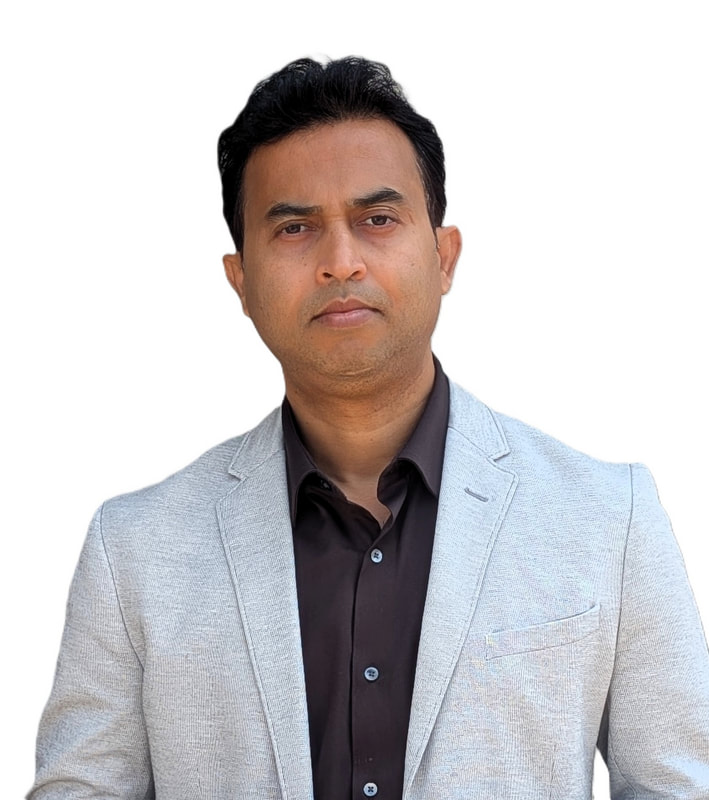
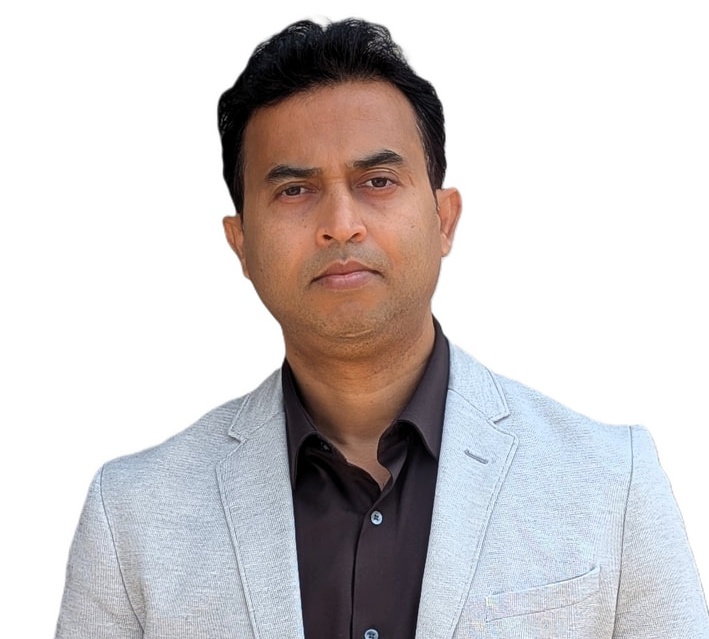
updated given changes

Changed region(s): [[0.031, 0.2379, 1.0, 1.0], [0.2793, 0.0297, 0.6516, 0.2081]]

diff --git a/index.html b/index.html
@@ -127,7 +127,7 @@
         text-align: center;
       }
       .home-gallery-slides .item {
-        height: 400px;
+        height: 500px;
       }
       .home-gallery-slides .item img {
         width: 100% !important;
@@ -1461,10 +1461,10 @@
               items: 1,
             },
             768: {
-              items: 2,
+              items: 1,
             },
             1200: {
-              items: 3,
+              items: 1,
             },
           },
         });

diff --git a/board.html b/board.html
@@ -285,7 +285,7 @@
 
                             <h6 style="color:#F9A33F;">Vice President</h6>
 
-                            <hr />Assistant Professor, Mechanical & Aerospace Engineering, IIT Hyderabad
+                            <hr />Prof, Department of Physics, IIT Hyderabad
                         </div>
                     </div>
                 </div>

diff --git a/team.html b/team.html
@@ -339,7 +339,7 @@
               <div class="col-lg-9 col-md-9 col-sm-9">
                 <h4>Prof. Arabinda Haldar</h4>
                 <h6 style="color: #f9a33f">
-                   Dean-Innovation, iTIC Incubator
+                   Prof, Department of Physics, iTIC Incubator
                 </h6>
                 <hr />
               </div>
